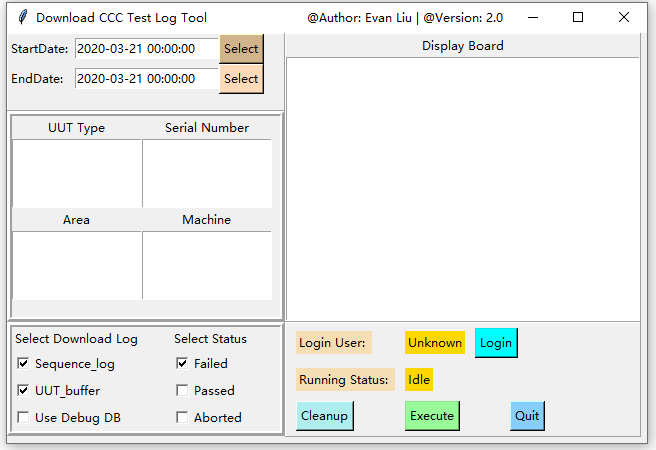
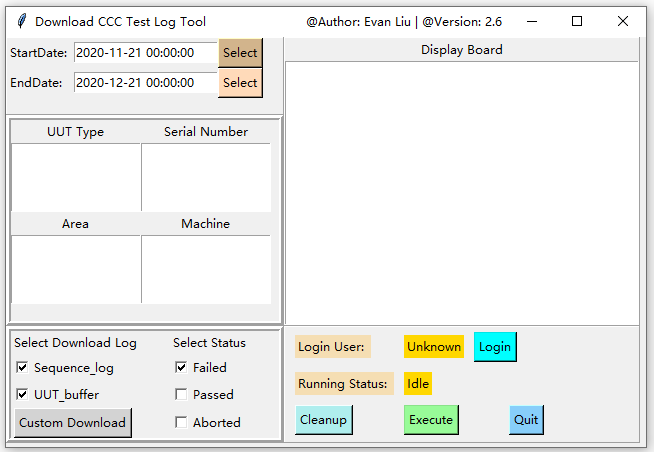
update

Changed region(s): [[0.0, 0.0, 1.0, 0.9956]]

diff --git a/automation_tool/automatic_download_log/ui_tool.py b/automation_tool/automatic_download_log/ui_tool.py
@@ -1,6 +1,22 @@
 """
 This is a quick download tool for CCC website test logs（https://cesium.cisco.com/）
 After running, a GUI window opens and you can select the test log within the specified date for batch download
+
+=========================================================
+Update history:
+
+# 2020/04/06 update -> Version: 1.7
+    1. Updated GUI layout and added some more human features
+
+# 2020/11/12 update -> Version: 2.0
+    1. Website login authentication interface upgrade
+    2. Optimized the prompt message of Failure
+    3. Added the ability to force a process to be deleted when exiting a GUI
+
+# 2020/12/21 update -> Version: 2.6
+    1. Add the ability to customize the download log type
+
+=========================================================
 """
 # -*- coding:utf-8 -*-
 # @Time     : 2020/03/21
@@ -204,7 +220,7 @@ class CCCSpider(object):
         else:
             return None
 
-    def get_measurement_data(self, serial_number='', download_file_list=['sequence_log'], request_params={}):
+    def get_measurement_data(self, serial_number='', download_file_list=[], request_params={}):
         """
         Gets the specified measurement file for the specified serial number
         :param str serial_number: Test serial number
@@ -218,8 +234,9 @@ class CCCSpider(object):
             measures_data = resp.json()
             for each_data in measures_data['measurements']:  # Walk through each measurement file
                 for file_type in download_file_list:
-                    if file_type in each_data['limit_id']:  # Matches the specified file type
-                        yield (file_type, each_data['measurement'])  # return the measurement type and id for download
+                    if file_type.upper() == each_data.get('name', '').upper():  # Matches the specified file type
+                        # return the measurement name and id for download
+                        yield each_data['name'], each_data['measurement']
             else:
                 yield None
 
@@ -558,7 +575,7 @@ class SpiderGui(object):
         self.build_storage_folder()
         self.root = tk.Tk()
         self.root.geometry('640x410')
-        self.root.title('Download CCC Test Log Tool                         @Author: Evan Liu | @Version: 2.0')
+        self.root.title('Download CCC Test Log Tool                         @Author: Evan Liu | @Version: 2.6')
 
         self.build_date_frame()
         self.build_request_data_frame()
@@ -567,6 +584,7 @@ class SpiderGui(object):
         self.build_button_frame()
         self.set_gui_center(window=self.root, x=2.5, y=4)
         self.logined_flag = False
+        self.custom_download_log = []
 
     def build_display_board_frame(self):
         frames = tk.Frame(relief='ridge', borderwidth=1)
@@ -621,9 +639,8 @@ class SpiderGui(object):
                                        offvalue='', onvalue='UUT_buffer')
         enable_check3.select()
         enable_check3.grid(row=2, column=0, sticky=tk.W)
-        self.use_debug = tk.StringVar()
-        tk.Checkbutton(frames, text="Use Debug DB", variable=self.use_debug,
-                       offvalue='', onvalue='dev').grid(row=3, column=0, sticky=tk.W)
+        tk.Button(frames, text='Custom Download', command=self.open_custom_window,
+                  bg='LightGrey').grid(row=3, column=0, sticky=tk.W, padx=3)
 
         tk.Label(frames, text='Select Status').grid(row=0, column=1, sticky=tk.W, padx=30)
         self.fail_status = tk.StringVar()
@@ -638,6 +655,88 @@ class SpiderGui(object):
         tk.Checkbutton(frames, text="Aborted", variable=self.about_status,
                        offvalue='', onvalue='A').grid(row=3, column=1, sticky=tk.W, padx=30)
         frames.grid(row=2, column=0, sticky=tk.NSEW)
+
+    @property
+    def all_download_log(self):
+        """
+        Integrate all download log types
+        :return:
+        """
+        all_download_log = []
+        for status in [self.seq_log.get(), self.uut_buffer.get()]:
+            if status:
+                all_download_log.append(status)
+        if self.custom_download_log:
+            all_download_log.extend(self.custom_download_log)
+        return all_download_log
+
+    def display_all_download_type(self):
+        """
+        Display all download type
+        :return:
+        """
+        self.display_download_type.delete(1.0, tk.END)
+        if self.all_download_log:
+            for index, each in enumerate(self.all_download_log, 1):
+                self.display_download_type.insert(tk.END, '{}: {}\n'.format(index, each))
+        else:
+            self.display_download_type.insert(tk.END, 'Null')
+
+    def add_download_type(self):
+        """
+        Add the customized download type
+        :return:
+        """
+        input_info = self.custom_type.get(1.0, tk.END).strip()
+        if input_info:
+            if len(input_info.splitlines()) > 1:
+                _result = []
+                for value in input_info.splitlines():
+                    if value:
+                        _result.append(value)
+                _result = ','.join(_result)
+            else:
+                _result = input_info
+        else:
+            _result = ''
+
+        if _result:
+            for each in _result.split(','):
+                if each in self.all_download_log:
+                    messagebox.showwarning('Warning', f'The download type "{each}" already exists')
+                    self.display_all_download_type()
+                    return
+                self.custom_download_log.append(each)
+            self.display_all_download_type()
+        else:
+            messagebox.showwarning('Warning', 'Please add the download type\nfor example: UUT_timestamp')
+
+    # 2020/12/21 update, Add the ability to customize the download log type
+    def open_custom_window(self):
+        self.custom_window = tk.Toplevel(self.root)
+        self.custom_window.title('Custom Download')
+        self.custom_window.wm_attributes("-topmost", True)
+
+        tk.Label(self.custom_window, text='Below are all the download types that have been added')\
+            .grid(row=0, column=0, sticky=tk.W, columnspan=2)
+        self.display_download_type = tk.Text(self.custom_window, width=45, height=8)
+        self.display_all_download_type()
+        self.display_download_type.grid(row=1, column=0, columnspan=2, sticky=tk.W)
+
+        tk.Label(self.custom_window, text='Add custom download type')\
+            .grid(row=2, column=0, sticky=tk.W, columnspan=2)
+        tk.Label(self.custom_window, text='From CCC website: "Limit Name"') \
+            .grid(row=3, column=0, sticky=tk.W, columnspan=2)
+
+        self.custom_type = tk.Text(self.custom_window, width=45, height=5)
+        self.custom_type.grid(row=4, column=0, columnspan=2, sticky=tk.W)
+
+        tk.Button(self.custom_window, text='Add', command=self.add_download_type,
+                  bg='MediumSpringGreen').grid(row=5, column=0, sticky=tk.W, padx=60, ipadx=8)
+        tk.Button(self.custom_window, text='Cancel', command=self.custom_window.destroy,
+                  bg='Tan').grid(row=5, column=1, sticky=tk.W)
+
+        self.set_gui_center(window=self.custom_window, x=1.4, y=3)
 
     def build_request_data_frame(self):
         frames = tk.Frame(relief='ridge', borderwidth=5)
@@ -766,15 +865,9 @@ class SpiderGui(object):
 
         # Format input parameter (download log type)
         select_download_log = []
-        for status in [self.seq_log.get(), self.uut_buffer.get()]:
+        for status in self.all_download_log:
             if status:
                 select_download_log.append(status)
-
-        # Check use_debug
-        if not self.use_debug.get():
-            use_debug = None
-        else:
-            use_debug = self.use_debug.get()
 
         final_result = {
             'start_time': self.start_time.get(),
@@ -785,7 +878,6 @@ class SpiderGui(object):
             'machine': input_result[3],
             'select_status': select_status,
             'select_download_log': select_download_log,
-            'use_debug': use_debug,
         }
 
         # Check start time and end time
@@ -896,7 +988,7 @@ class SpiderGui(object):
             'start_time': all_input_info['start_time'],
             'end_time': all_input_info['end_time'],
             'dataset': 'test_results',
-            'database': all_input_info['use_debug'],
+            'database': None,
             'start': 0,
             'limit': '5000',
             'user': '',

diff --git a/automation_tool/automatic_download_log/unit_test.py b/automation_tool/automatic_download_log/unit_test.py
@@ -1,5 +1,5 @@
 """
-Manually run the log download function, you can download any format of the log
+Unit test log download feature
 """
 # -*- coding:utf-8 -*-
 # @Time     : 2020/12/11
@@ -359,7 +359,7 @@ class CCCSpider(object):
         params = {
             'test': '',
             'dataset': 'test_results',
-            'database': '',
+            'database': None,
             'start': 0,
             'limit': '5000',
             'user': '',
